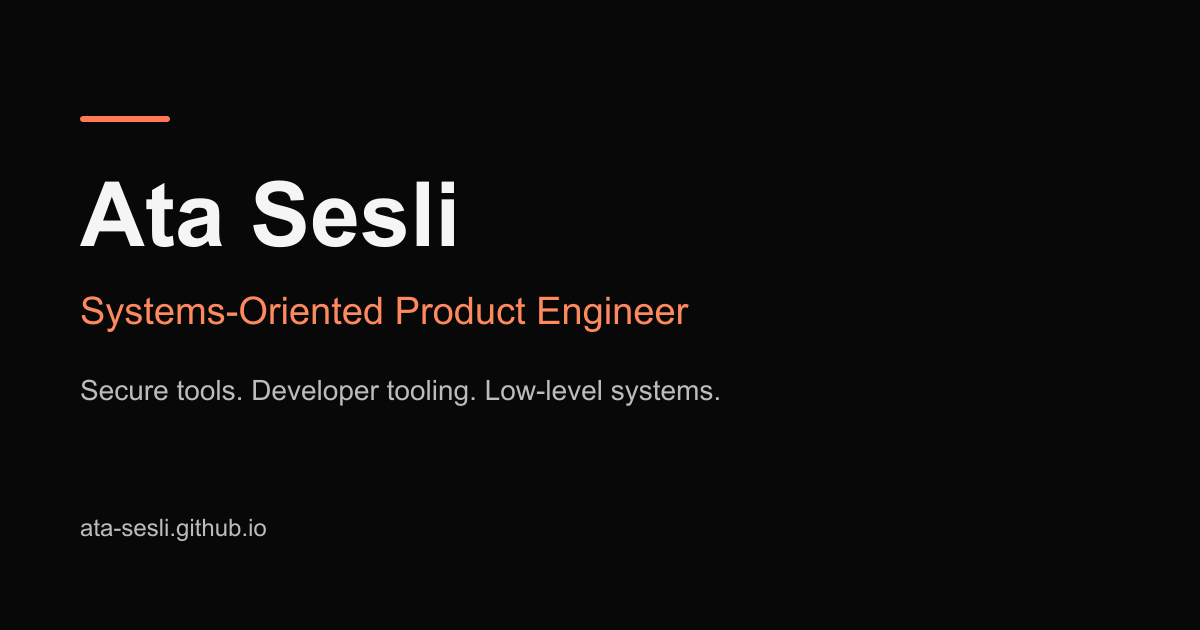
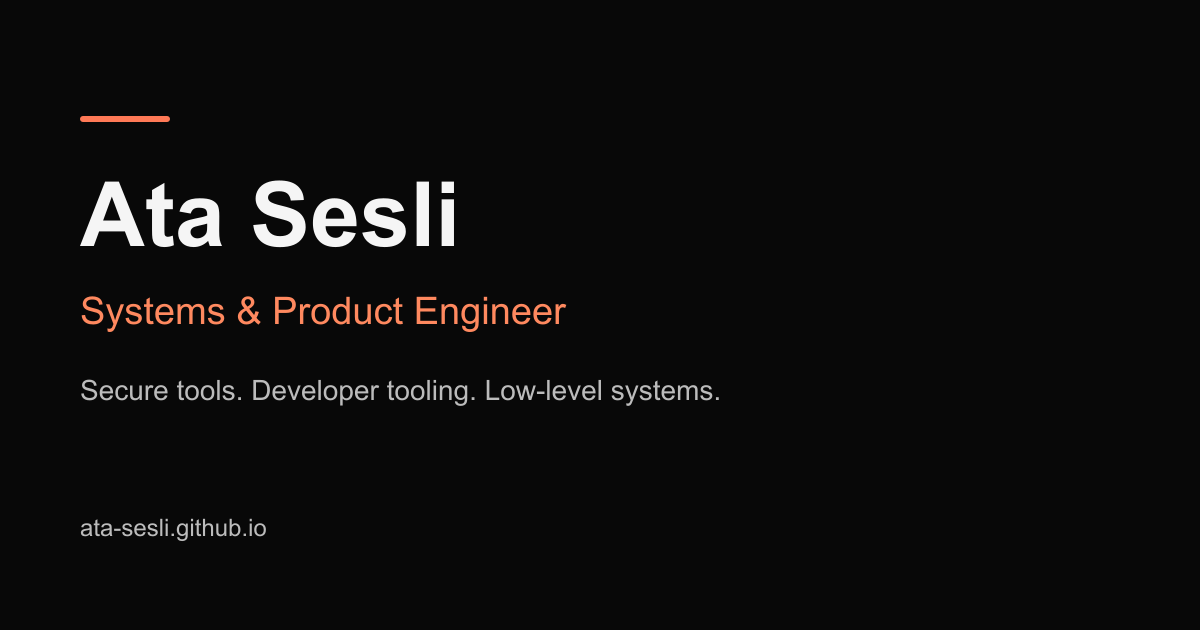
chore(site): update professional title

Changed region(s): [[0.185, 0.4524, 0.5858, 0.5429]]

diff --git a/src/routes/+page.svelte b/src/routes/+page.svelte
@@ -21,10 +21,10 @@
 	<link rel="canonical" href="https://ata-sesli.github.io/" />
 	<meta property="og:type" content="website" />
 	<meta property="og:url" content="https://ata-sesli.github.io/" />
-	<meta property="og:title" content="Ata Sesli | Systems-Oriented Product Engineer" />
+	<meta property="og:title" content="Ata Sesli | Systems & Product Engineer" />
 	<meta property="og:description" content={heroSubtitle} />
 	<meta property="og:image" content="https://ata-sesli.github.io/social-preview.png" />
-	<meta property="og:image:alt" content="Ata Sesli — Systems-Oriented Product Engineer" />
+	<meta property="og:image:alt" content="Ata Sesli — Systems & Product Engineer" />
 	<meta name="twitter:card" content="summary_large_image" />
 	<script type="application/ld+json">
 		{
@@ -33,7 +33,7 @@
 			"@id": "https://ata-sesli.github.io/#person",
 			"name": "Ata Sesli",
 			"url": "https://ata-sesli.github.io/",
-			"description": "Systems-oriented product engineer building secure tools, developer tooling, and low-level systems.",
+			"description": "Systems & Product Engineer building secure tools, developer tooling, and low-level systems.",
 			"sameAs": [
 				"https://github.com/ata-sesli",
 				"https://www.linkedin.com/in/ata-sesli/",
@@ -41,7 +41,7 @@
 			]
 		}
 	</script>
-	<title>Ata Sesli | Systems-Oriented Product Engineer</title>
+	<title>Ata Sesli | Systems & Product Engineer</title>
 	<meta
 		name="description"
 		content="Ata Sesli builds trustworthy software systems: secure tools, local-first products, observable infrastructure, developer tooling, and low-level systems experiments."

diff --git a/src/lib/about-me.ts b/src/lib/about-me.ts
@@ -1,6 +1,6 @@
 export default {
     "full-name": "Ata Sesli",
     "education": "3rd year computer engineering student",
-    "title": "Systems-Oriented Product Engineer",
+    "title": "Systems & Product Engineer",
     "description": "description.md"
 }
